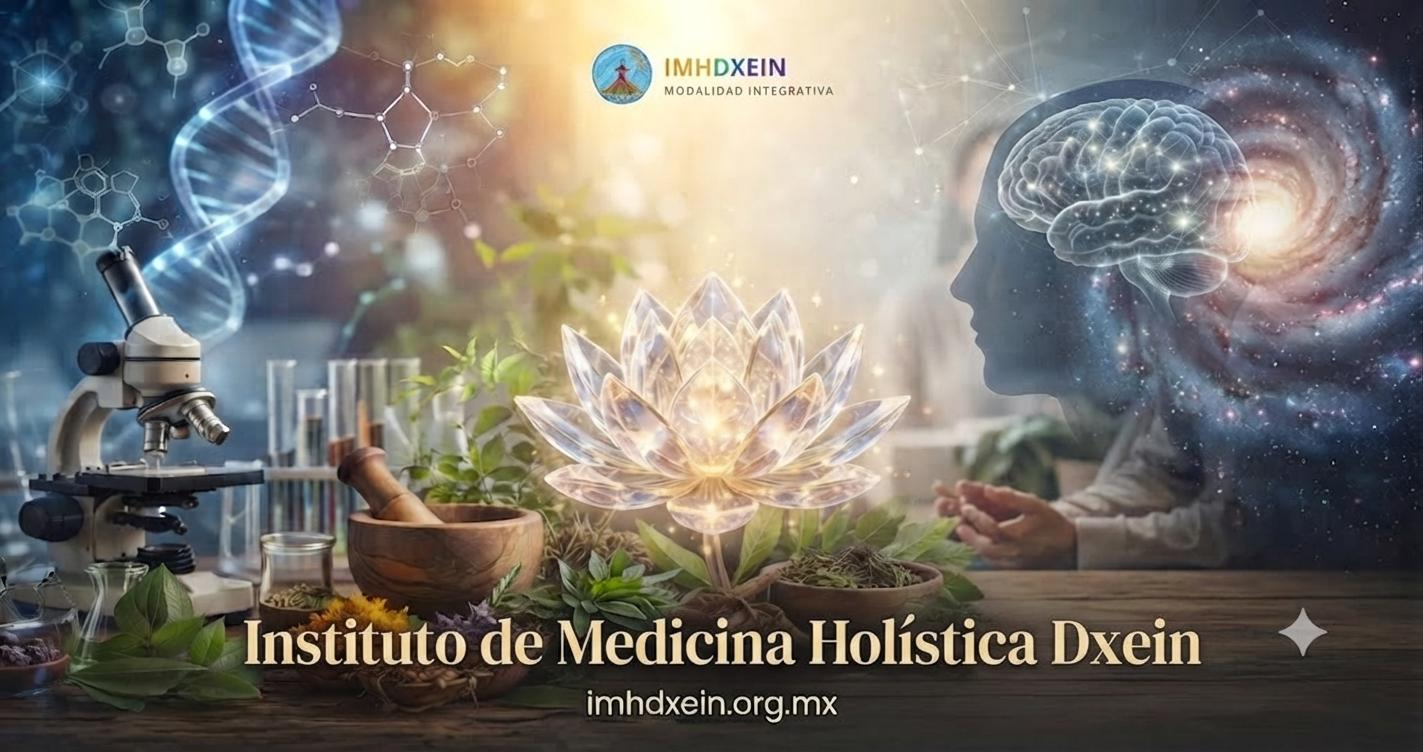
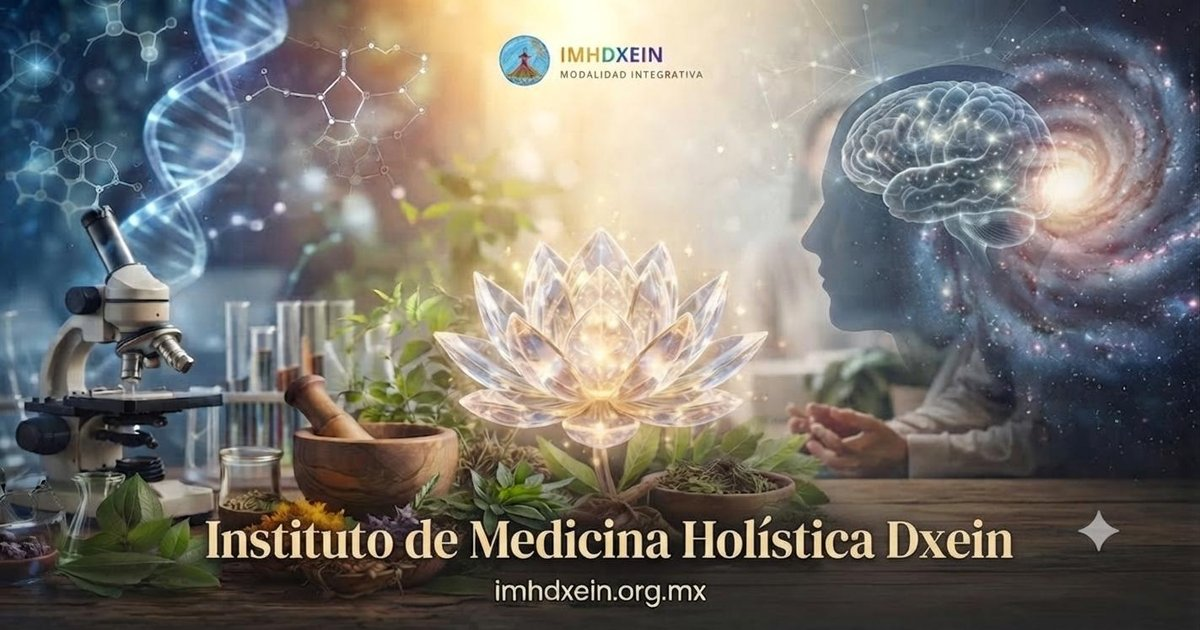
feat(seo): imagen OG absoluta, metadatos de artículo, robots y lastmod
- og:image absoluta en todas las páginas: JPEG 1200x630 generado con
  getImage (CDN de Netlify), con og:image:alt y dimensiones reales;
  og-image.jpg por defecto recortada a 1200x630.
- Artículos del blog: og:type article, article:published_time/author y
  JSON-LD BlogPosting.
- Meta descripciones recortadas en límite de palabra (~155 caracteres);
  resumen corto del blog completado con el inicio del artículo;
  descripciones fijas reescritas para caber enteras.
- Títulos sin marca en cada página; el layout añade " | IMHDXEIN" si cabe
  en 60 caracteres. Se elimina meta keywords.
- robots.txt excluye /keystatic, /api/ y /_actions/; middleware añade
  X-Robots-Tag: noindex a esas rutas de servidor.
- Sitemap con lastmod de cada artículo (publishedAt de Keystatic).
- Helpers en src/lib/seo.ts; readingTime reutiliza plainText.

diff --git a/src/lib/seo.ts b/src/lib/seo.ts
@@ -1,0 +1,48 @@
+import type { ImageMetadata } from 'astro';
+import { getImage } from 'astro:assets';
+
+/** Longitud que Google muestra sin cortar en la mayoría de resultados. */
+const DESCRIPTION_MAX = 155;
+
+/** Texto plano a partir de Markdoc/Markdown: sin etiquetas, imágenes ni marcas de formato. */
+export const plainText = (source: string) =>
+  source
+    .replace(/\{%[\s\S]*?%\}/g, ' ')
+    .replace(/!\[[^\]]*\]\([^)]*\)/g, ' ')
+    .replace(/\[([^\]]*)\]\([^)]*\)/g, '$1')
+    .replace(/[*_`~]/g, '') // marcas de énfasis: se quitan sin dejar hueco ("**Dxein** ," -> "Dxein,")
+    .replace(/[#>|]/g, ' ')
+    .replace(/\s+/g, ' ')
+    .trim();
+
+/**
+ * Meta descripción de longitud segura: espacios normalizados y, si pasa del máximo, recorte en
+ * el último límite de palabra con "…" (antes se cortaba con slice(0, 160) a mitad de palabra).
+ */
+export const metaDescription = (text: string, max = DESCRIPTION_MAX) => {
+  const clean = text.replace(/\s+/g, ' ').trim();
+  if (clean.length <= max) return clean;
+  const cut = clean.slice(0, max - 1);
+  const lastSpace = cut.lastIndexOf(' ');
+  return `${(lastSpace > max * 0.6 ? cut.slice(0, lastSpace) : cut).replace(/[\s,;:.–—-]+$/, '')}…`;
+};
+
+export const OG_IMAGE_WIDTH = 1200;
+export const OG_IMAGE_HEIGHT = 630;
+
+/**
+ * URL absoluta de la imagen para redes sociales: recorte exacto de 1200×630 en JPEG. Las redes
+ * (WhatsApp, Facebook, LinkedIn, X) ignoran rutas relativas y WhatsApp descarta imágenes pesadas,
+ * así que nunca se enlaza el original importado.
+ */
+export const ogImageUrl = async (image: ImageMetadata, site: URL) => {
+  const { src } = await getImage({
+    src: image,
+    width: OG_IMAGE_WIDTH,
+    height: OG_IMAGE_HEIGHT,
+    fit: 'cover',
+    format: 'jpg',
+    quality: 80,
+  });
+  return new URL(src, site).toString();
+};

diff --git a/src/lib/readingTime.ts b/src/lib/readingTime.ts
@@ -1,14 +1,11 @@
+import { plainText } from './seo';
+
 // 200 palabras por minuto: ritmo de lectura cómodo en español para un público general,
 // algo por debajo de la media de lectores expertos para no prometer menos tiempo del real.
 const WORDS_PER_MINUTE = 200;
 
 /** Minutos estimados de lectura de un texto Markdoc/Markdown (mínimo 1). */
 export const readingMinutes = (source: string) => {
-  const text = source
-    .replace(/\{%[\s\S]*?%\}/g, ' ') // etiquetas Markdoc
-    .replace(/!\[[^\]]*\]\([^)]*\)/g, ' ') // imágenes
-    .replace(/\[([^\]]*)\]\([^)]*\)/g, '$1') // enlaces: se cuenta solo el texto
-    .replace(/[#>*_`~|-]/g, ' ');
-  const words = text.split(/\s+/).filter(Boolean).length;
+  const words = plainText(source).split(' ').filter(Boolean).length;
   return Math.max(1, Math.round(words / WORDS_PER_MINUTE));
 };

diff --git a/src/middleware.ts b/src/middleware.ts
@@ -1,0 +1,15 @@
+import { defineMiddleware } from 'astro:middleware';
+
+// Rutas de servidor que nunca deben indexarse: el panel de Keystatic, su API y los endpoints
+// de Astro Actions. robots.txt solo impide rastrearlas; esta cabecera impide que se indexen
+// aunque alguien las enlace. Se pone aquí (no en netlify.toml) porque son respuestas de la
+// función de servidor, donde las cabeceras estáticas de Netlify no siempre se aplican.
+const NOINDEX_PREFIXES = ['/keystatic', '/api/', '/_actions/'];
+
+export const onRequest = defineMiddleware(async (context, next) => {
+  const response = await next();
+  if (NOINDEX_PREFIXES.some((prefix) => context.url.pathname.startsWith(prefix))) {
+    response.headers.set('X-Robots-Tag', 'noindex, nofollow');
+  }
+  return response;
+});
